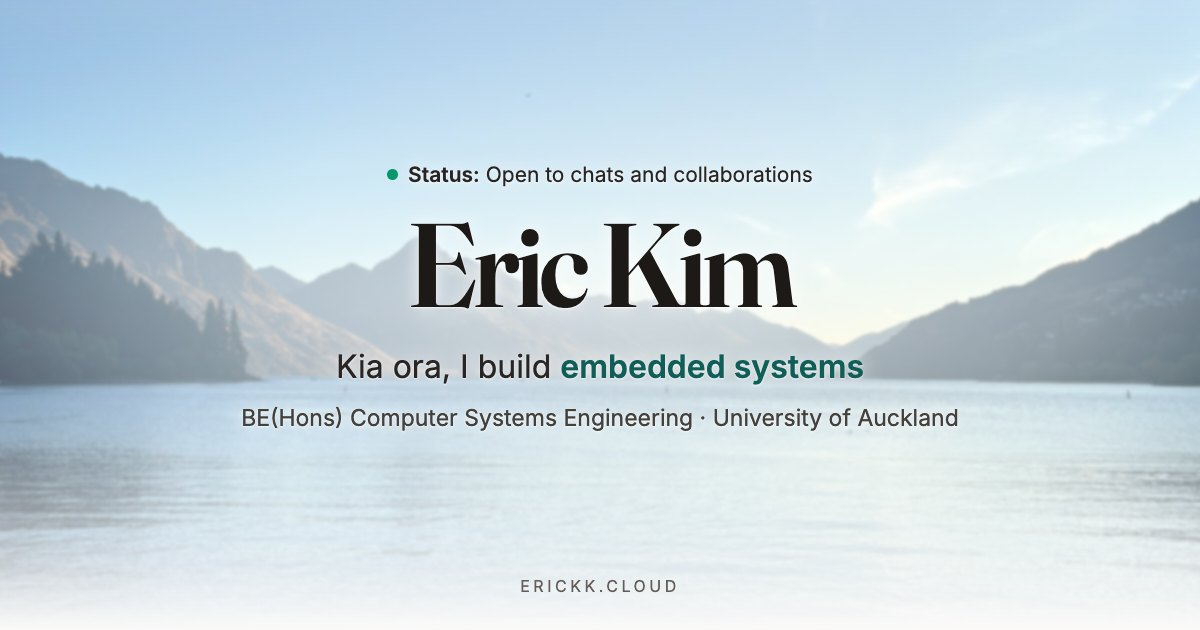
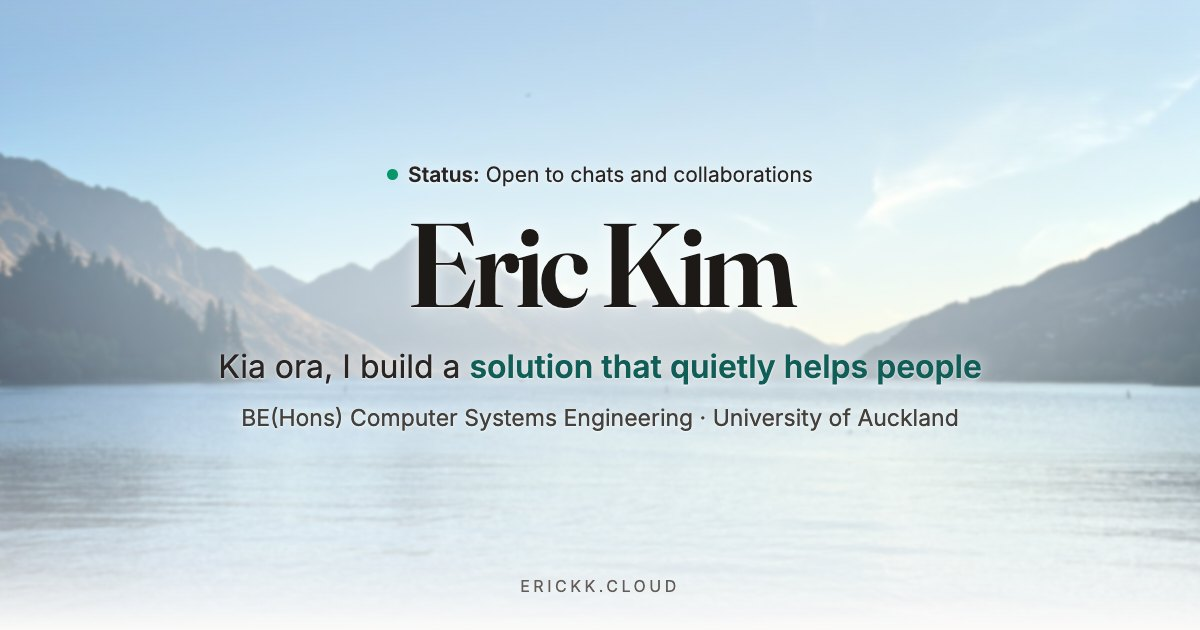
Update share preview to match the hero phrase

Changed region(s): [[0.185, 0.5429, 0.8325, 0.6032]]

diff --git a/index.html b/index.html
@@ -27,12 +27,12 @@
       property="og:description"
       content="Computer Systems Engineering student at the University of Auckland. AI, robotics, and cloud computing."
     />
-    <meta property="og:image" content="https://erickk.cloud/og-image.jpg?v=7" />
+    <meta property="og:image" content="https://erickk.cloud/og-image.jpg?v=8" />
     <meta property="og:image:width" content="1200" />
     <meta property="og:image:height" content="630" />
     <meta property="og:url" content="https://erickk.cloud/" />
     <meta name="twitter:card" content="summary_large_image" />
-    <meta name="twitter:image" content="https://erickk.cloud/og-image.jpg?v=7" />
+    <meta name="twitter:image" content="https://erickk.cloud/og-image.jpg?v=8" />
 
     <!-- Structured data for search engines -->
     <script type="application/ld+json">
